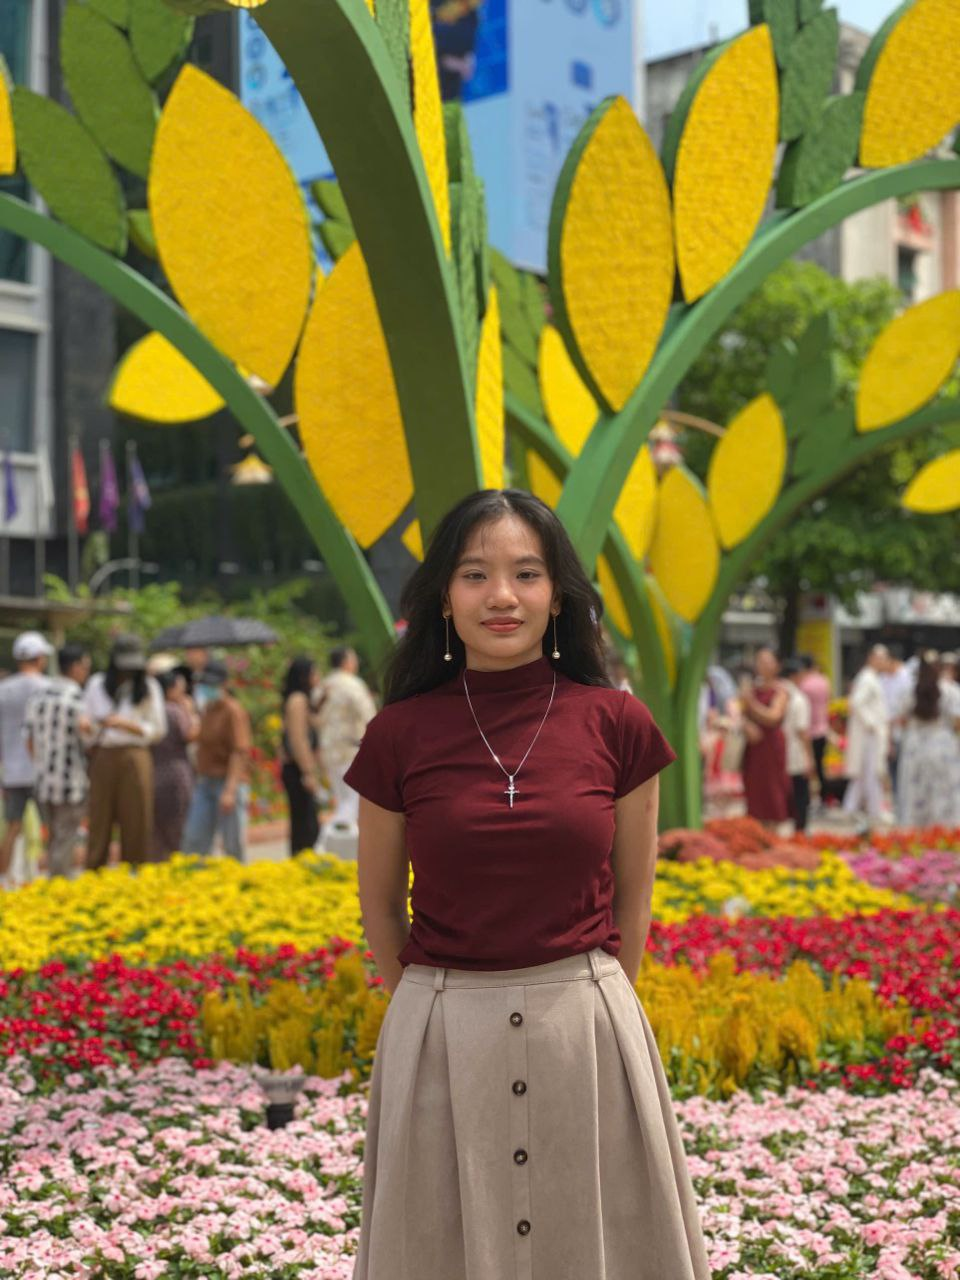
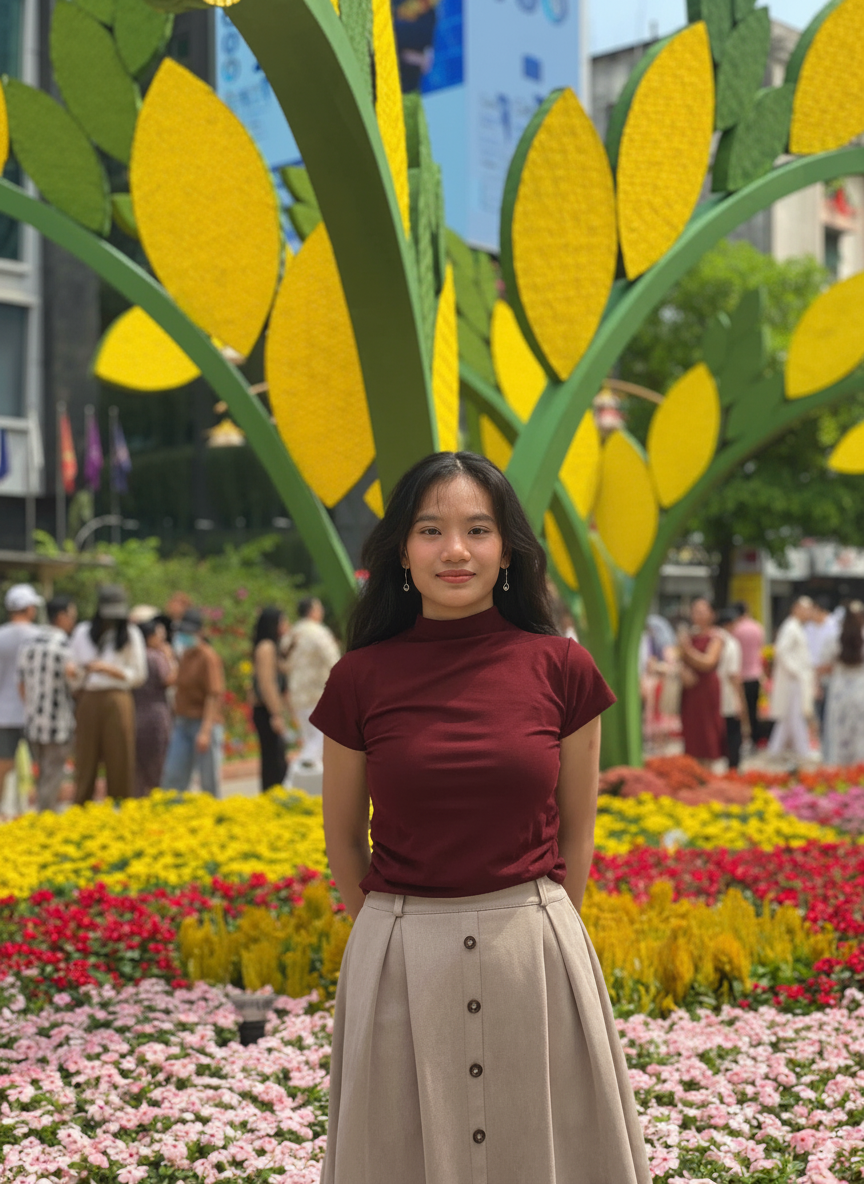
27/09/25 - 01

diff --git a/index.html b/index.html
@@ -3,7 +3,7 @@
   <head>
     <meta charset="utf-8" />
     <meta name="viewport" content="width=device-width, initial-scale=1" />
-    <title>Thmy</title>
+    <title>Nguyen Hoang Thmy</title>
     <script>
       document.documentElement.classList.remove("no-js");
       document.documentElement.classList.add("js");
@@ -56,7 +56,7 @@
             <div class="s-intro__content-text">
               <div class="s-intro__content-pretitle text-pretitle">Hello</div>
               <h1 class="s-intro__content-title">
-                I'm My Nguyen <br />
+                I'm Thao My <br />
                 a market researcher <br />
                 from Vietnam.
               </h1>
@@ -73,7 +73,7 @@
 
         <div class="s-intro__content-media">
           <img
-            src="images/intro-bg.jpg"
+            src="images/"
             srcset="images/intro-bg.jpg 1x, images/intro-bg.jpg 2x"
             alt=""
           />
@@ -92,71 +92,90 @@
             </div>
 
             <p class="attention-getter">
-              Lorem ipsum dolor sit amet consectetur adipisicing elit. Voluptas
-              explicabo id debitis cupiditate cumque, error quia! Debitis
-              cupiditate ipsa nihil labore, earum atque dolor quos saepe vero
-              inventore, odit nam deleniti accusantium omnis mollitia
-              consequatur harum incidunt! Ex modi aut repudiandae doloremque
-              commodi recusandae labore sit. Perspiciatis omnis dolor dolores
-              fuga iusto, recusandae animi nisi consequuntur exercitationem id
-              maxime earum pariatur voluptas! Porro non quos quae tempora fuga
-              quis sequi minus sed sint debitis reiciendis, nostrum natus
-              suscipit iusto odio.
+              As a fresher, I am eager to step out of my comfort zone to learn and grow in the field of 
+              market research with business domain in Finance. With experiences in market research 
+              as well as product analysis, I desire to learn more about analysis skillset to tailor 
+              more meaningful insight from reading data that drive business success. My shorterm goal 
+              is to fully understand the business operation and the environment surround it. My long-term
+              goal is to become a strategic partner who can contribute to the success of the organization.
+        
             </p>
 
             <p class="attention-getter">
-              Lorem ipsum dolor sit amet, consectetur adipiscing elit, sed do
-              eiusmod tempor incididunt ut labore et dolore magna aliqua. Ut
-              enim ad minim veniam, quis nostrud exercitation ullamco laboris
-              nisi ut aliquip ex ea commodo consequat. Duis aute irure dolor in
-              reprehenderit. Ut enim ad minim
+              Welcome to my place!
             </p>
 
             <div class="grid-list-items s-about__blocks">
-              <div class="grid-list-items__item s-about__block">
-                <h4 class="s-about__block-title">Experience</h4>
-                <ul class="s-about__list">
-                  <li>
-                    University of Finance - Marketing 
-                    <span>Market researcher (9/2021)</span>
-                  </li>
-                  <li>
-                    YouNet ECI 
-                    <span>Research Trainee (9/2024)</span>
-                  </li>
-                </ul>
+              <div class="grid-list-items__row">
+                <div class="grid-list-items__item s-about__block">
+                  <h4 class="s-about__block-title">Study & Activities</h4>
+                  <ul class="s-about__list">
+                    <li>
+                      + Bachelor of Business Administration (2021-2025)
+                      <span>University of Finance - Marketing (UFM)
+                        <br>GPA: 3.65/4.0
+                      </span>
+                    </li>
+                  </ul>
+                </div>
+                <div class="grid-list-items__item s-about__block">
+                  <h4 class="s-about__block-title"> Certification & Award</h4>
+                  <ul class="s-about__list">
+                    <li>
+                      <a>
+                        + Study Scholarship for 7 out of 10 semesters
+                        <span>Offered by UFM for top 4% students in each major </span>
+                      </a>
+                    </li>
+                    <li>
+                      <a href="#0">
+                        + Student of Five Merits
+                        <span>Federation of Business Administration</span>
+                      </a>
+                    </li>
+                    <li>
+                      <a href="#0">
+                        + TOEIC 4 Skills 1300/1390
+                        <span>IIG Vietnam</span>
+                      </a>
+                  </ul>
+                </div>
               </div>
 
-              <div class="grid-list-items__item s-about__block">
-                <h4 class="s-about__block-title">Awards</h4>
-
-                <ul class="s-about__list">
-                  <li>
-                    <a>
-                      University of Finance - Marketing
-                      <span>Excellent Study Scholarship 6/9 semesters</span>
-                    </a>
-                  </li>
-                  <li>
-                    <a href="#0">
-                      Federation of Business Administration
-                      <span>Student of Five Merits</span>
-                    </a>
-                  </li>
-                </ul>
-              </div>
-
-              <div class="grid-list-items__item s-about__block">
-                <h4 class="s-about__block-title">Skills</h4>
-
-                <ul class="s-about__list">
-                  <li>Office information technology skill</li>
-                  <li>Coordination & Team-work skill</li>
-                  <li>Presentation skill</li>
-                  <li>Time management skill</li>
-                </ul>
+              <div class="grid-list-items__row">
+                <div class="grid-list-items__item s-about__block">
+                  <h4 class="s-about__block-title">Experience</h4>
+                  <ul class="s-about__list">
+                    <li>
+                      + Product Research & Analytic Officer 
+                      <span>09/25 - Present: Yes4All</span>
+                    </li>
+                    <li>
+                      + Research Trainee
+                      <span>09/24 - 12/24: YouNet ECI</span>
+                    </li>
+                    <li>
+                      + Teaching Assistant - English
+                      <span>04/24 - 07/24: Quo English</span>
+                    </li>
+                    <li>
+                      + Store Assistant
+                      <span>03/24  -  06/24: Phuc Long Heritage</span>
+                    </li>
+                  </ul>
+                </div>
+                <div class="grid-list-items__item s-about__block">
+                  <h4 class="s-about__block-title">Skills</h4>
+                  <ul class="s-about__list">
+                    <li>Office information technology skill</li>
+                    <li>Coordination & Team-work skill</li>
+                    <li>Presentation skill</li>
+                    <li>Time management skill</li>
+                  </ul>
+                </div>
               </div>
             </div>
+
           </div>
         </div>
       </section>
